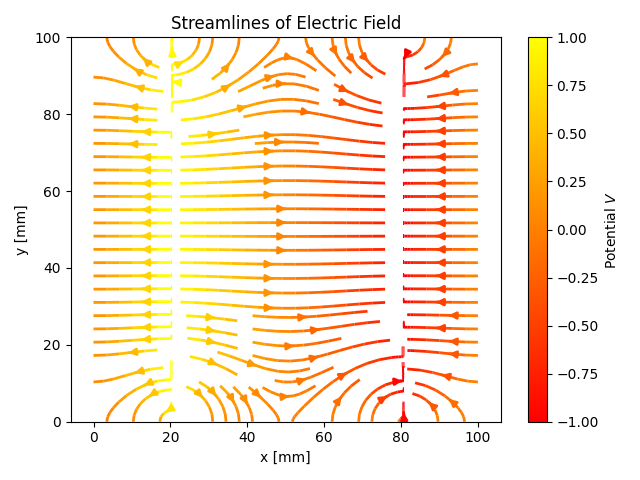
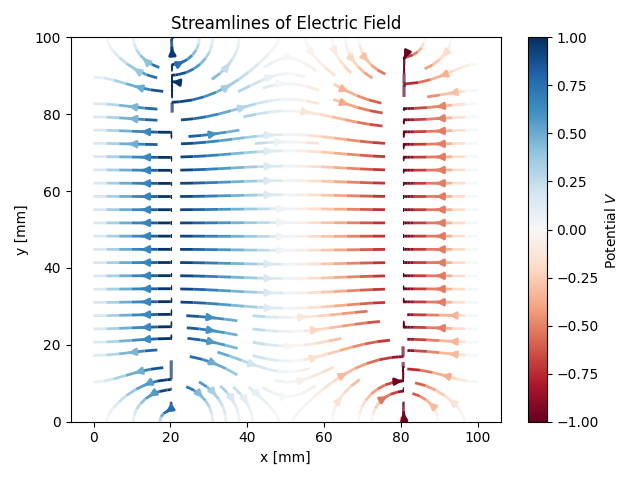
Lab Report 4: Everything except beautify

Changed region(s): [[0.125, 0.0625, 0.75, 0.875], [0.8125, 0.0625, 0.875, 0.875]]

diff --git a/Lab Report 4/Lab4_Q3.py b/Lab Report 4/Lab4_Q3.py
@@ -1,7 +1,6 @@
 import numpy as np
 import matplotlib.pyplot as plt
 
-
 # Initial Parameters
 epsilon = 1
 deltax = 0.02  # [m]
@@ -10,23 +9,16 @@ Lx = 2 * np.pi  # [m]
 
 Tf = 2  # [s]
 
-
 # Initial arrays (t = 0)
 x = np.arange(0, Lx, deltax)
 N = len(x) - 1
 u = np.sin(x)
 
+# Initialize the plot
+plt.figure(figsize=(10, 6))
+
 # Plot of u vs x at time = 0
-plt.plot(x, u)
-plt.xlabel("x [m]")
-plt.ylabel("u [m/s]")
-plt.title("u vs x at time 0")
-plt.savefig("Lab4Q3a.png")
-plt.clf()
-
-
-"""DONT FORGET u BOUNDARY CONDISH"""
-
+plt.plot(x, u, label="t=0s")
 
 """Implement FTCS method"""
 
@@ -60,28 +52,21 @@ while t < tend:
 
     # Plot of u vs x at specified times
     if abs(t - t1) < epsilon:
-        print(x[np.argmax(u2)])
-        plt.plot(x, u2)
-        plt.xlabel("x [m]")
-        plt.ylabel("u [m/s]")
-        plt.title("u vs x at time " + str(t1))
-        plt.savefig("Lab4Q3b.png")
-        plt.clf()
+        print(f"Max u2 at t={t1}: x = {x[np.argmax(u2)]}")
+        plt.plot(x, u2, label=f"t={t1}s")
 
     if abs(t - t2) < epsilon:
-        print(x[np.argmax(u2)])
-        plt.plot(x, u2)
-        plt.xlabel("x [m]")
-        plt.ylabel("u [m/s]")
-        plt.title("u vs x at time " + str(t2))
-        plt.savefig("Lab4Q3c.png")
-        plt.clf()
+        print(f"Max u2 at t={t2}: x = {x[np.argmax(u2)]}")
+        plt.plot(x, u2, label=f"t={t2}s")
 
     if abs(t - t3) < epsilon:
-        print(x[np.argmax(u2)])
-        plt.plot(x, u2)
-        plt.xlabel("x [m]")
-        plt.ylabel("u [m/s]")
-        plt.title("u vs x at time " + str(t3))
-        plt.savefig("Lab4Q3d.png")
-        plt.clf()
+        print(f"Max u2 at t={t3}: x = {x[np.argmax(u2)]}")
+        plt.plot(x, u2, label=f"t={t3}s")
+
+# Finalize the plot
+plt.xlabel("x [m]")
+plt.ylabel("u [m/s]")
+plt.title("u vs x at Different Times")
+plt.legend()
+plt.savefig("Lab4Q3_combined.png")
+plt.show()

diff --git a/Lab Report 4/Lab4_Q2.py b/Lab Report 4/Lab4_Q2.py
@@ -1,7 +1,6 @@
 import numpy as np
 import matplotlib.pyplot as plt
 
-
 # Initial Parameters
 L = 1  # Length [m]
 g = 9.81  # Acceleration due to gravity [m/s^2]
@@ -21,25 +20,16 @@ A = 0.002  # [m]
 mean = 0.5  # [m]
 sigma = 0.05  # [m]
 
-
 # Main arrays (at time 0)
 u = np.zeros(len(x))
 helper_value = np.exp(-((x - mean) ** 2) / (sigma**2))
 eta = H + A * helper_value - np.mean(A * helper_value)
 
+# Initialize the plot
+plt.figure(figsize=(10, 6))
 
 # Plot of eta vs x at time = 0
-plt.plot(x, eta)
-plt.xlabel("x [m]")
-plt.ylabel("eta [m]")
-plt.title("Free Surface Height vs x at t=0")
-plt.savefig("Lab4Q2a.png")
-# plt.show()
-plt.clf()
-
-
-"""DONT FORGET u BOUNDARY CONDISH"""
-
+plt.plot(x, eta, label="t=0s")
 
 """Implement FTCS method"""
 
@@ -86,19 +76,15 @@ while t < tend:
 
     # Now plot at appropriate times
     if abs(t - t1) < epsilon:
-        plt.plot(x, eta)
-        plt.xlabel("x [m]")
-        plt.ylabel("eta [m]")
-        plt.title("Free Surface Height vs x at t=1s")
-        plt.savefig("Lab4Q2b.png")
-        # plt.show()
-        plt.clf()
+        plt.plot(x, eta, label="t=1s")
 
     if abs(t - t2) < epsilon:
-        plt.plot(x, eta)
-        plt.xlabel("x [m]")
-        plt.ylabel("eta [m]")
-        plt.title("Free Surface Height vs x at t=4s")
-        plt.savefig("Lab4Q2c.png")
-        # plt.show()
-        plt.clf()
+        plt.plot(x, eta, label="t=4s")
+
+# Finalize the plot
+plt.xlabel("x [m]")
+plt.ylabel("eta [m]")
+plt.title("Free Surface Height vs x at Different Times")
+plt.legend()
+plt.savefig("Lab4Q2_combined.png")
+plt.show()

diff --git a/Lab Report 4/Lab4_Q1.py b/Lab Report 4/Lab4_Q1.py
@@ -1,5 +1,6 @@
 import numpy as np
 import matplotlib.pyplot as plt
+import time
 
 
 def LaplacianSolver(initial_phi, target, w=0):
@@ -62,7 +63,9 @@ initial_phi[:, -20] = -1  # 2cm from right is -1V
 
 """Part A: Relaxation Method"""
 # Calculate the potential
+start = time.time()
 phi_relaxed = LaplacianSolver(initial_phi, target)
+print("Time Taken for w = 0 is ", time.time() - start)
 
 plt.contourf(phi_relaxed, cmap="RdBu")
 plt.colorbar()
@@ -79,7 +82,9 @@ plt.clf()
 """w = 0.1"""
 
 # Calculate the potential
+start = time.time()
 phi_overrelaxed1 = LaplacianSolver(initial_phi, target, w=0.1)
+print("Time Taken for w = 0.1 is ", time.time() - start)
 
 plt.contourf(phi_overrelaxed1, cmap="RdBu")
 plt.colorbar()
@@ -94,7 +99,9 @@ plt.clf()
 """w=0.5"""
 
 # Calculate the potential
+start = time.time()
 phi_overrelaxed2 = LaplacianSolver(initial_phi, target, w=0.5)
+print("Time Taken for w = 0.5 is ", time.time() - start)
 
 plt.contourf(phi_overrelaxed2, cmap="RdBu")
 plt.colorbar()
@@ -113,7 +120,7 @@ X, Y = np.meshgrid(x, y)
 
 Ey, Ex = np.gradient(-phi_relaxed, y, x)
 
-strm = plt.streamplot(X, Y, Ex, Ey, color=phi_relaxed, linewidth=2, cmap="autumn")
+strm = plt.streamplot(X, Y, Ex, Ey, color=phi_relaxed, linewidth=2, cmap="RdBu")
 cbar = plt.colorbar(strm.lines)
 cbar.set_label("Potential $V$")
 plt.xlabel("x [mm]")
